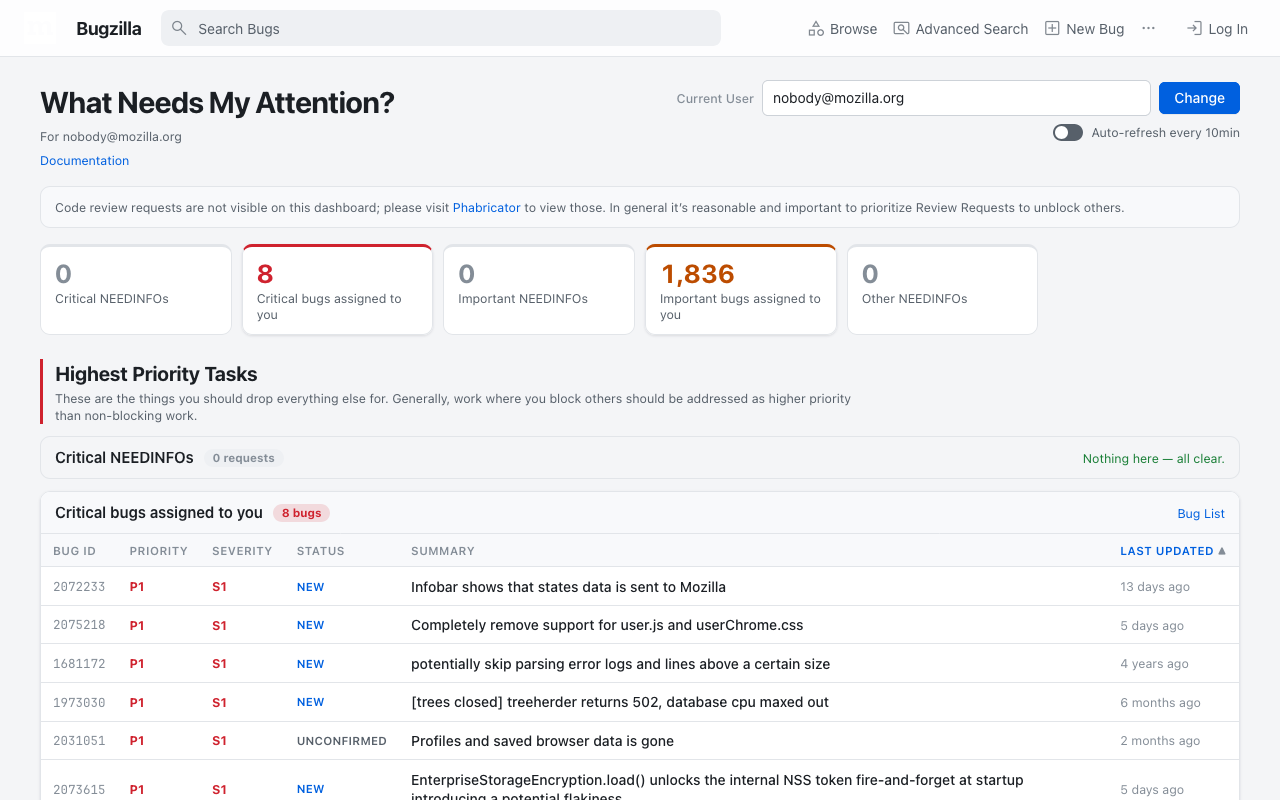
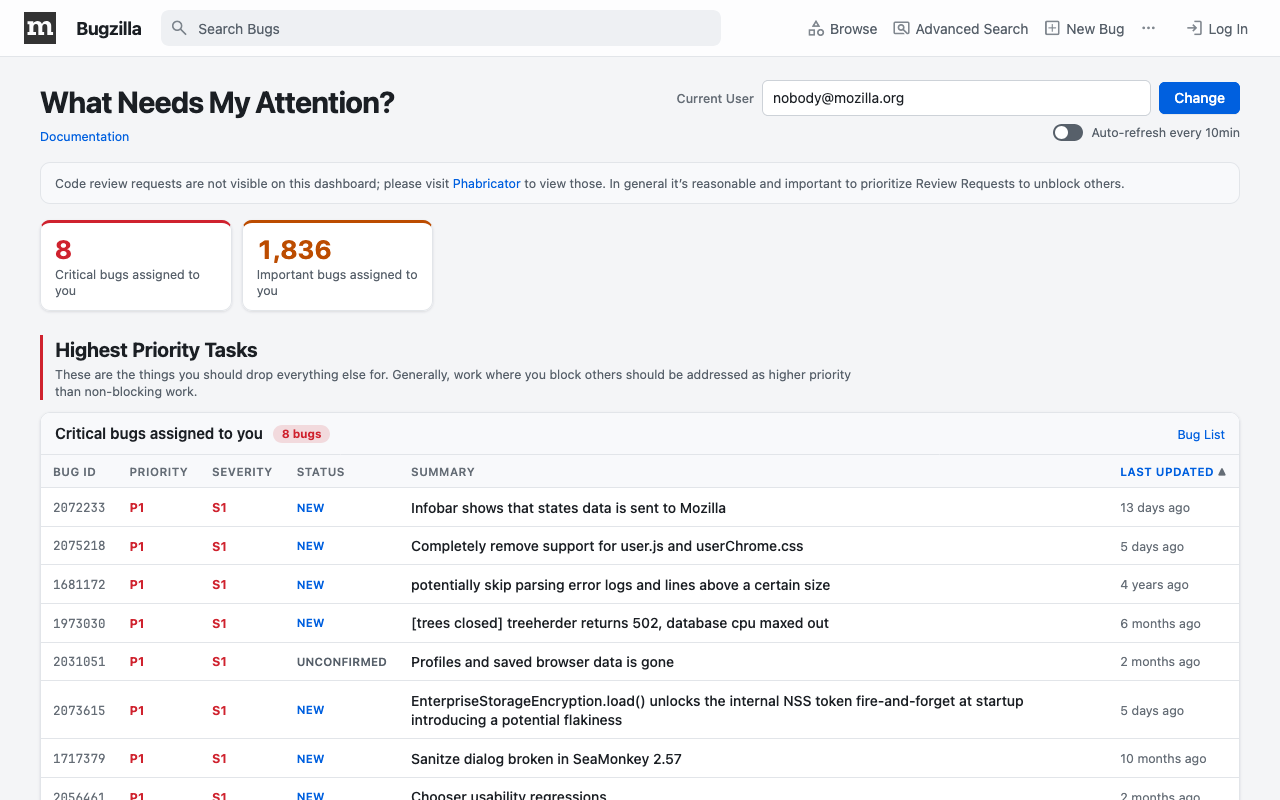
Fold empty attention-dashboard lists into one All clear line
Most lists on What Needs My Attention are empty for most people, yet each
got a zero tile and its own card, so the lists that did need attention
were spread out among them. Empty lists now collapse into a single "All
clear: ..." line per tier and get no tile.

diff --git a/content/layouts/pages.js b/content/layouts/pages.js
@@ -241,13 +241,17 @@
       const overview = h("nav", { class: "pb-at-overview", "aria-label": "Summary" });
       changes.insert(overview, root, (note ?? hero).nextSibling);
 
+      // Most lists are empty for most people: those fold into one "All clear" line per tier and
+      // get no tile, so what's left is what needs attention.
       let tier = null;
       let tierIndex = -1;
       let listIndex = 0;
+      const empties = new Map();
       for (const node of $$(":scope > h2, :scope > .task-desc, :scope > .bug-list-header", root)) {
         if (node.matches("h2")) {
           tierIndex++;
           tier = h("section", { class: `pb-at-tier pb-at-tier-${Math.min(tierIndex, 3)}` }, h("div", { class: "pb-at-tier-head" }), h("div", { class: "pb-at-lists" }));
+          empties.set(tier, []);
           changes.insert(tier, root, node);
           changes.move(node, tier.firstChild);
           continue;
@@ -261,12 +265,14 @@
         const table = node.nextElementSibling?.matches("table.bug-list") ? node.nextElementSibling : null;
         const count = Number(clean($(".bug-list-count", node)?.textContent ?? "0").replace(/[^\d]/g, "")) || 0;
         const name = clean($(".bug-list-title", node)?.textContent ?? "");
-        const card = h("section", { class: `pb-at-list${count ? "" : " pb-at-empty"}`, id: `pb-at-list-${listIndex++}` });
+        const card = h("section", { class: `pb-at-list${count ? "" : " pb-at-empty"}`, id: `pb-at-list-${listIndex++}`, hidden: !count });
         tier.lastChild.append(card);
         changes.move(node, card);
         if (table) changes.move(table, card);
-
-        if (!count) card.append(h("p", { class: "pb-at-clear", text: "Nothing here — all clear." }));
+        if (!count) {
+          empties.get(tier).push(name);
+          continue;
+        }
 
         for (const cell of table ? table.querySelectorAll("td.status, td.priority, td.severity") : []) {
           const value = clean(cell.textContent).toLowerCase().replace(/[^a-z0-9]/g, "");
@@ -287,10 +293,15 @@
           card.append(more);
         }
 
-        overview.append(h("a", { class: `pb-at-tile pb-at-tier-${Math.min(tierIndex, 3)}${count ? "" : " pb-at-zero"}`, href: `#${card.id}` },
+        overview.append(h("a", { class: `pb-at-tile pb-at-tier-${Math.min(tierIndex, 3)}`, href: `#${card.id}` },
           h("span", { class: "pb-at-tile-count", text: count.toLocaleString() }),
           h("span", { class: "pb-at-tile-label", text: name })));
       }
+
+      for (const [section, names] of empties) {
+        if (names.length) section.lastChild.append(h("p", { class: "pb-at-clear" }, h("strong", { text: "All clear: " }), names.join(", ")));
+      }
+      if (!overview.children.length) overview.append(h("p", { class: "pb-at-clear", text: "Nothing needs your attention right now." }));
     },
   });
 

diff --git a/content/layouts/pages.css b/content/layouts/pages.css
@@ -525,12 +525,8 @@
   outline-offset: -2px;
 }
 
-.pb-on.pb-layout .pb-at-list.pb-at-empty {
-  display: flex;
-  align-items: center;
-  justify-content: space-between;
-  box-shadow: none;
-  background-color: transparent;
+.pb-on.pb-layout .pb-at-list[hidden] {
+  display: none;
 }
 
 .pb-on.pb-layout .pb-at-list .bug-list-header {
@@ -574,9 +570,15 @@
 
 .pb-on.pb-layout .pb-at-clear {
   margin: 0;
-  padding: 0 14px;
-  color: var(--pb-success);
+  border: 1px dashed var(--pb-border-strong);
+  border-radius: var(--pb-radius);
+  padding: 10px 14px;
+  color: var(--pb-text-2);
   font-size: var(--font-size-small);
+}
+
+.pb-on.pb-layout .pb-at-clear strong {
+  color: var(--pb-success);
 }
 
 .pb-on.pb-layout .pb-at-list table.bug-list {

diff --git a/README.md b/README.md
@@ -27,7 +27,7 @@ A Firefox extension that gives [bugzilla.mozilla.org](https://bugzilla.mozilla.o
 | `show_activity.cgi` | A compact day-grouped change log with field chips, person filter, Hide CC, Newest first, a value history for a single field (e.g. P3 → P2 → P1), and the filter kept in the URL |
 | `describekeywords.cgi` | A dense, filterable keyword table with sortable Keyword and Bugs columns and an Include inactive switch |
 | `user_profile` | Profile header, stats tiles, activity-by-product bars |
-| `page.cgi?id=attention.html` | A triage dashboard: counts per list, priority tiers, collapsed empty lists |
+| `page.cgi?id=attention.html` | A triage dashboard: count tiles only for lists that have bugs, priority tiers, and empty lists folded into one "All clear" line per tier |
 | `page.cgi` help pages | Readable articles with a sticky table of contents |
 | `page.cgi?id=custom_forms.html` | A card grid of custom bug forms |
 | `page.cgi` reports (user activity, triage, release tracking, group members, …) | A page title, the form as a wrapping filter bar and the results as a card |
